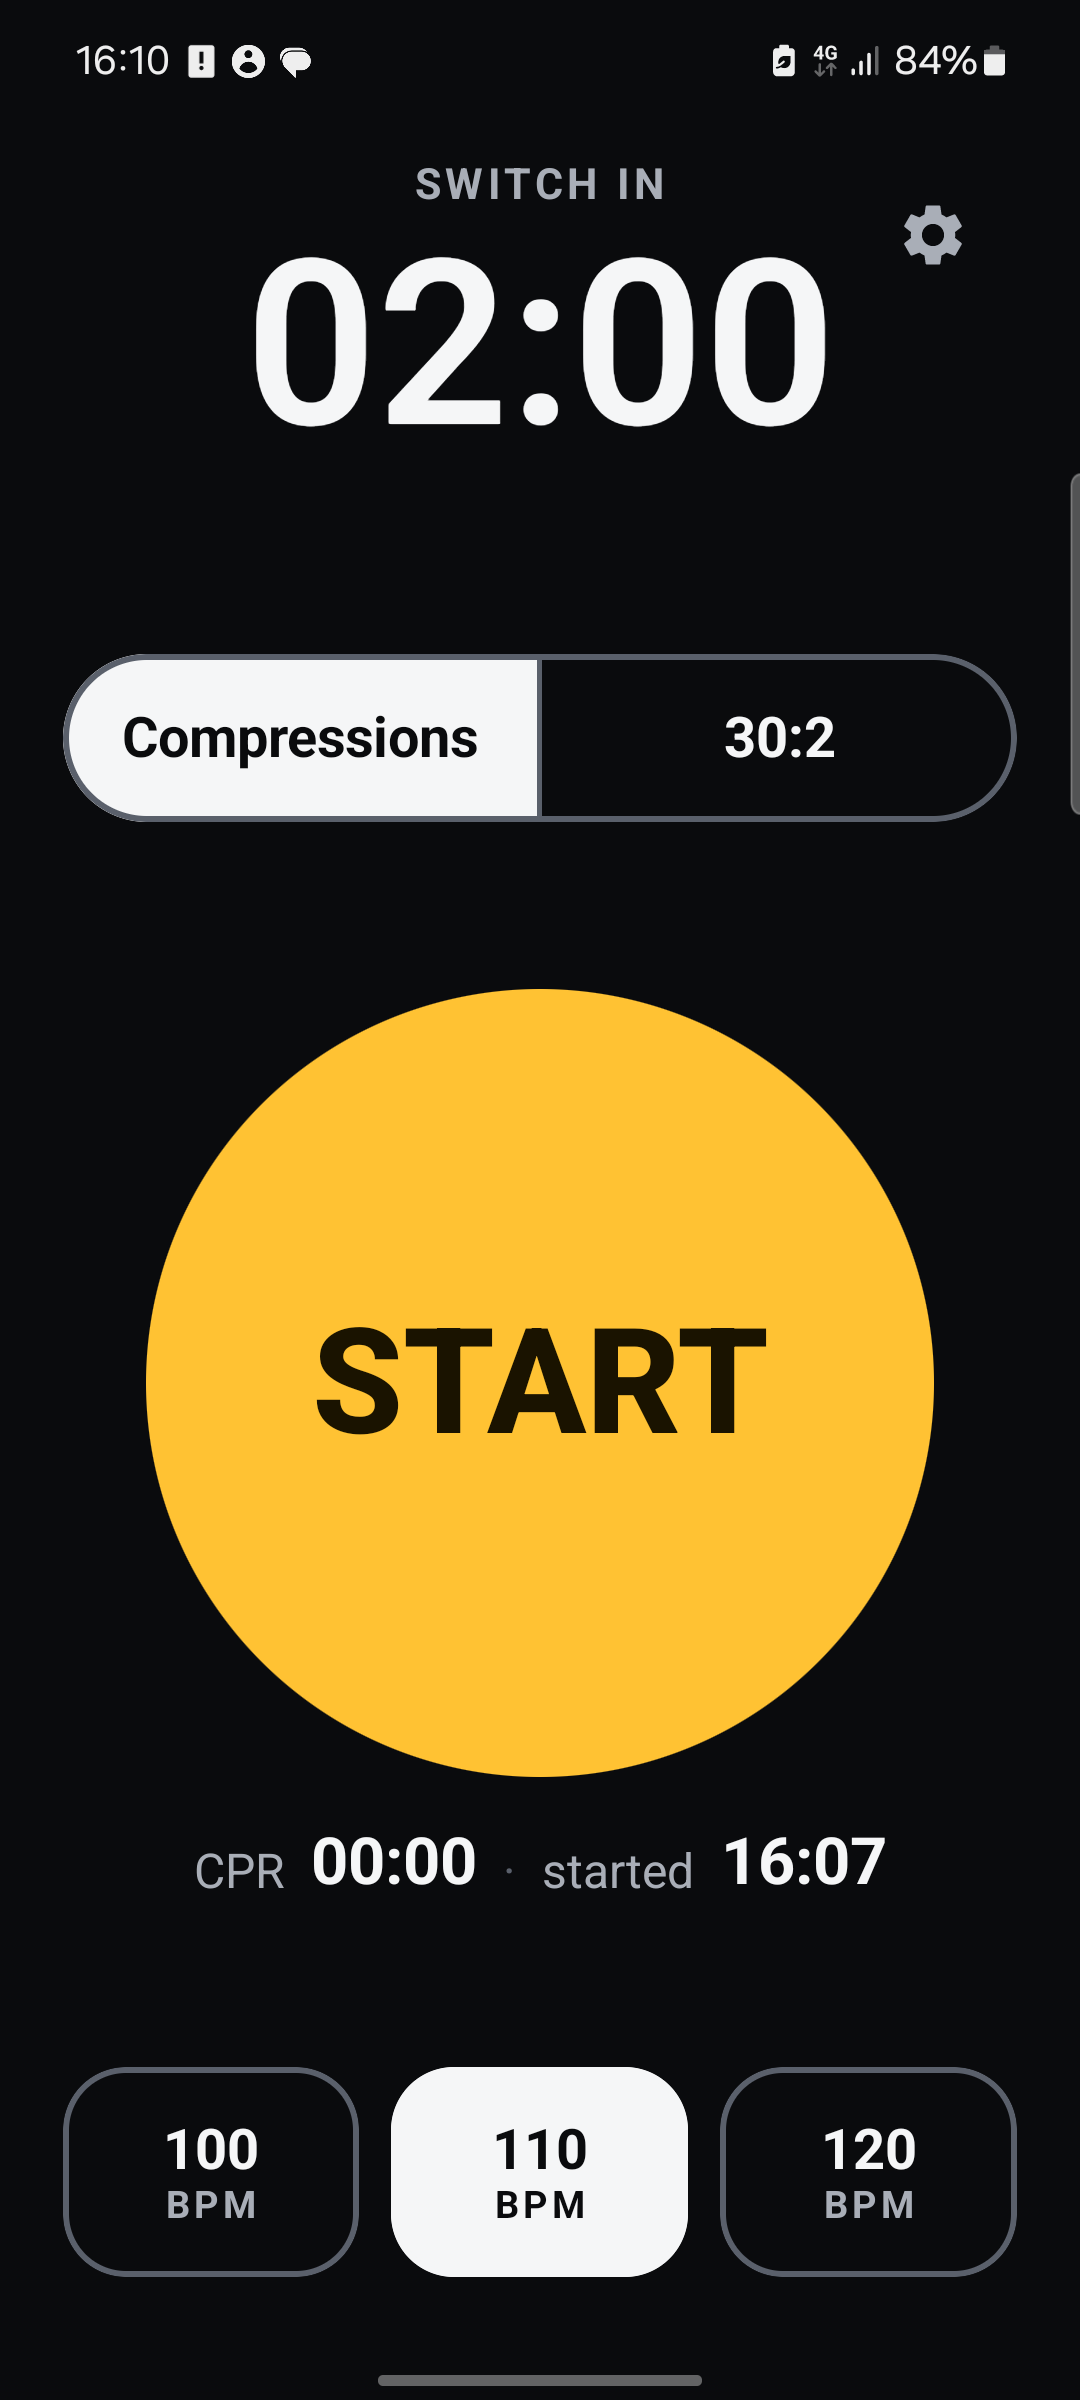
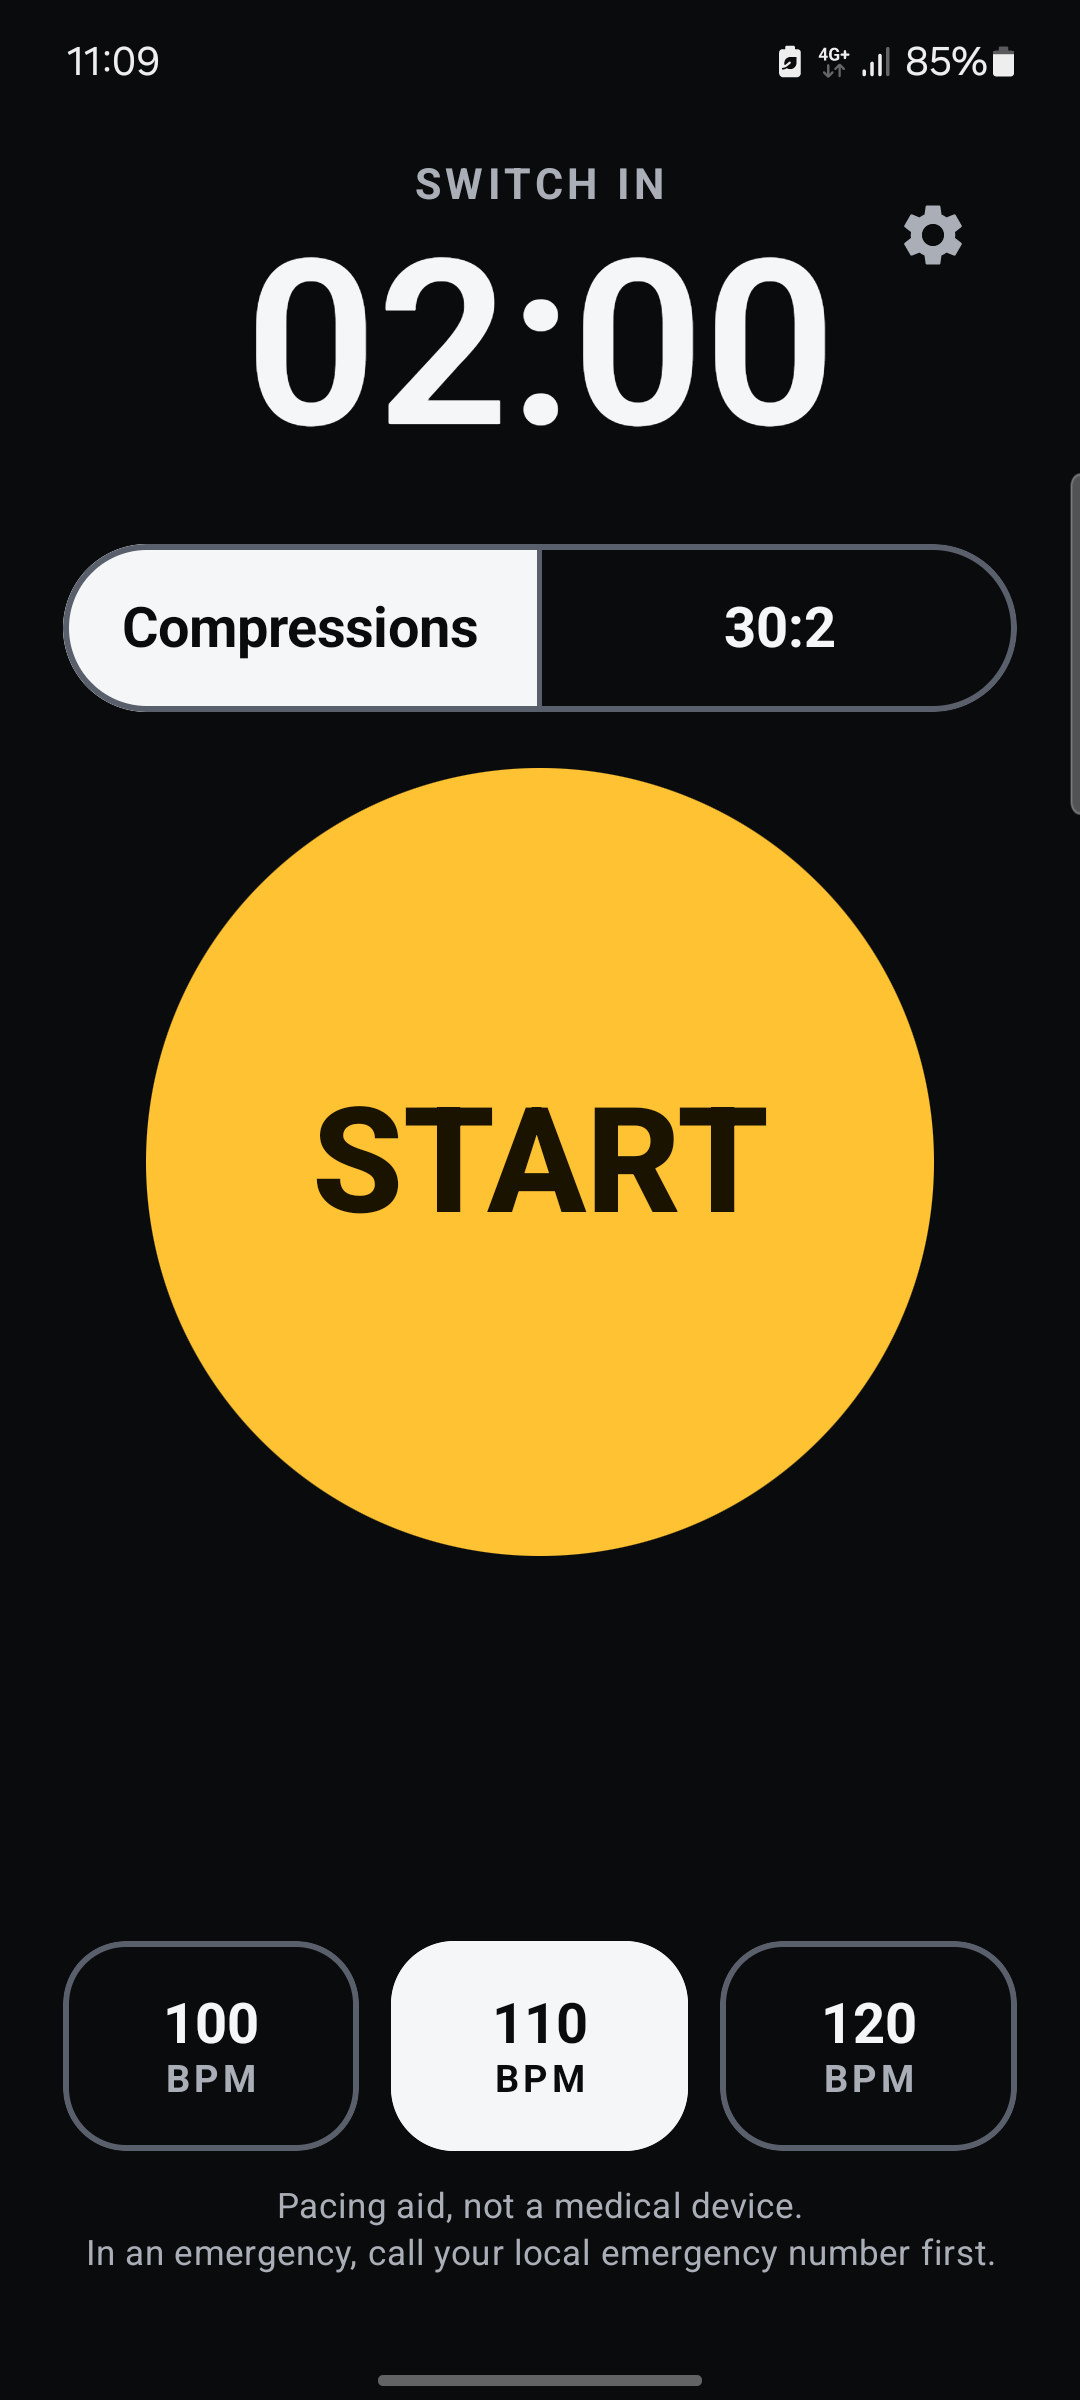
Release 0.2.0
versionCode 2, versionName 0.2.0. CHANGELOG moves the Unreleased entries
under 0.2.0; SPEC and the store guide carry the new version. Store
screenshots retaken on the Samsung A52 from the 0.2.0 release build:
disclaimer line on the main screen, no first-launch hints.

diff --git a/store/STORE_GUIDE.md b/store/STORE_GUIDE.md
@@ -9,7 +9,7 @@ Everything the four stores ask for, and where it lives in this repo. Facts verif
 |---|---|
 | Release build | `./gradlew bundleRelease assembleRelease` with `keystore.properties` present. AAB in `app/build/outputs/bundle/release/`, APK in `app/build/outputs/apk/release/`. Also attached to the GitHub release. |
 | Signing key | `~/.cprbeat/release.jks`, alias `cprbeat`, PKCS12. Password in the password manager. **Back it up off the laptop.** Certificate SHA-256 `12:9F:19:E1:CA:54:F1:79:FA:58:E0:F0:60:1F:6B:8B:F3:AA:9F:A4:35:C5:7D:3F:77:F1:E0:F0:64:BF:C5:23`. |
-| App id / version | `dev.alcini.cprbeat`, versionCode 1, versionName 0.1.0. Bump both in `app/build.gradle.kts` for every store upload; stores reject a reused versionCode. |
+| App id / version | `dev.alcini.cprbeat`, versionCode 2, versionName 0.2.0. Bump both in `app/build.gradle.kts` for every store upload; stores reject a reused versionCode. |
 | Icon 512×512 | `store/icon-512.png` |
 | Feature graphic 1024×500 | `store/feature-graphic-1024x500.png` (Play only, others optional) |
 | Screenshots | `fastlane/metadata/android/en-US/images/phoneScreenshots/` (1080×2400, from the Samsung A52) |

diff --git a/CHANGELOG.md b/CHANGELOG.md
@@ -8,6 +8,8 @@ matching entry at release time.
 
 ## [Unreleased]
 
+## [0.2.0] - 2026-10-09
+
 ### Added
 
 - The main screen shows a short note under the rate buttons: pacing aid, not a medical device,
@@ -52,5 +54,6 @@ matching entry at release time.
   per-session overrides.
 - First-launch hints, dark theme, English only, fully offline with no permissions.
 
-[Unreleased]: https://github.com/alessioalcini/cpr-beat/compare/9579741...HEAD
+[Unreleased]: https://github.com/alessioalcini/cpr-beat/compare/v0.2.0...HEAD
+[0.2.0]: https://github.com/alessioalcini/cpr-beat/compare/9579741...v0.2.0
 [0.1.0]: https://github.com/alessioalcini/cpr-beat/tree/9579741b4fa99711d1abe26ec629907182a655fb

diff --git a/SPEC.md b/SPEC.md
@@ -226,7 +226,7 @@ F-Droid and store submissions stay in section 11 and `store/STORE_GUIDE.md`, not
 | Language / UI | Kotlin, Jetpack Compose, Material 3 |
 | applicationId | `dev.alcini.cprbeat` |
 | minSdk / targetSdk / compileSdk | 26 / 36 / 37 |
-| versionName / versionCode | 0.1.0 / 1 |
+| versionName / versionCode | 0.2.0 / 2 |
 | Build | Gradle wrapper, Kotlin DSL, version catalog, JDK 17 for the Gradle daemon |
 | Persistence | DataStore Preferences |
 | Audio | `AudioTrack` looped PCM, `USAGE_ALARM` |
